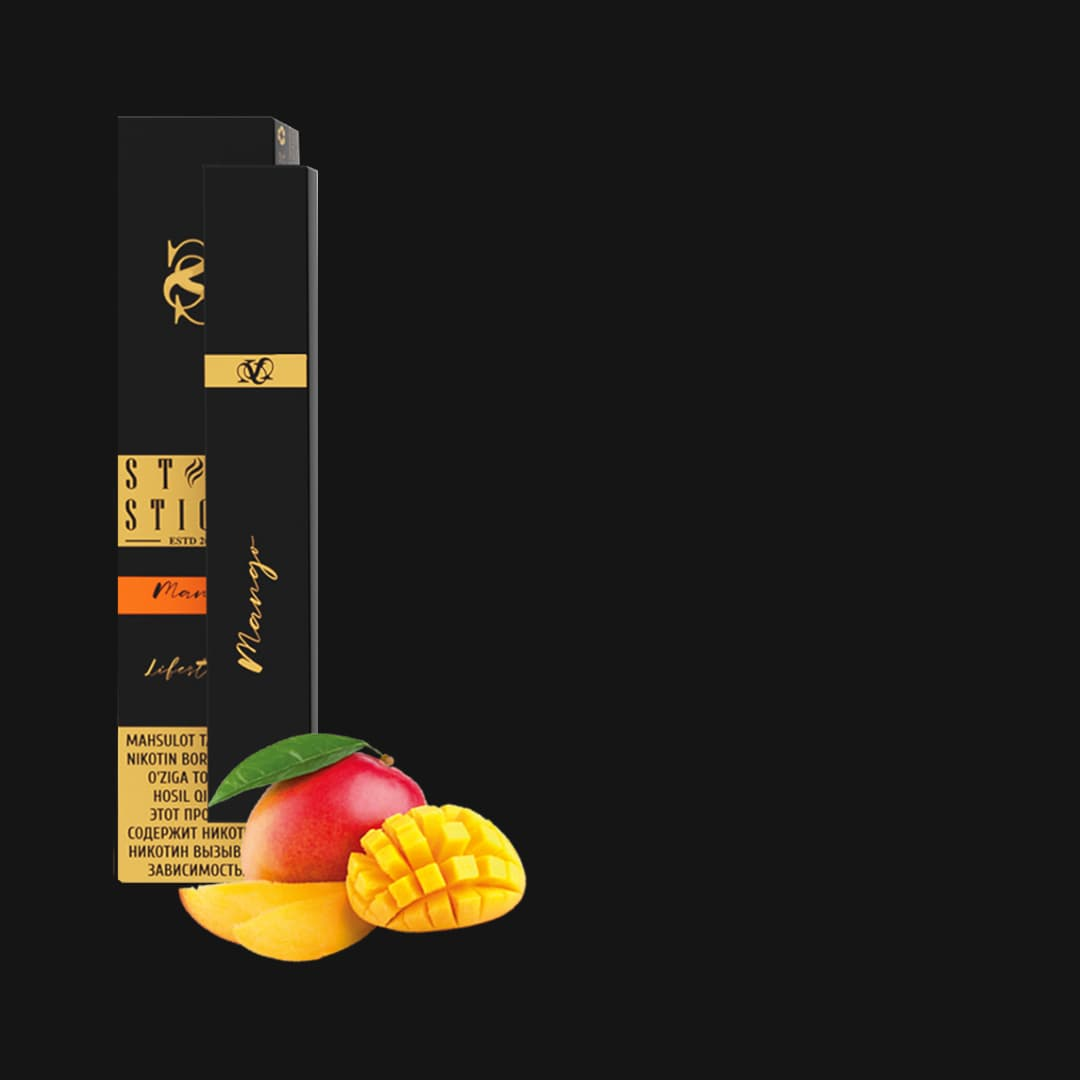
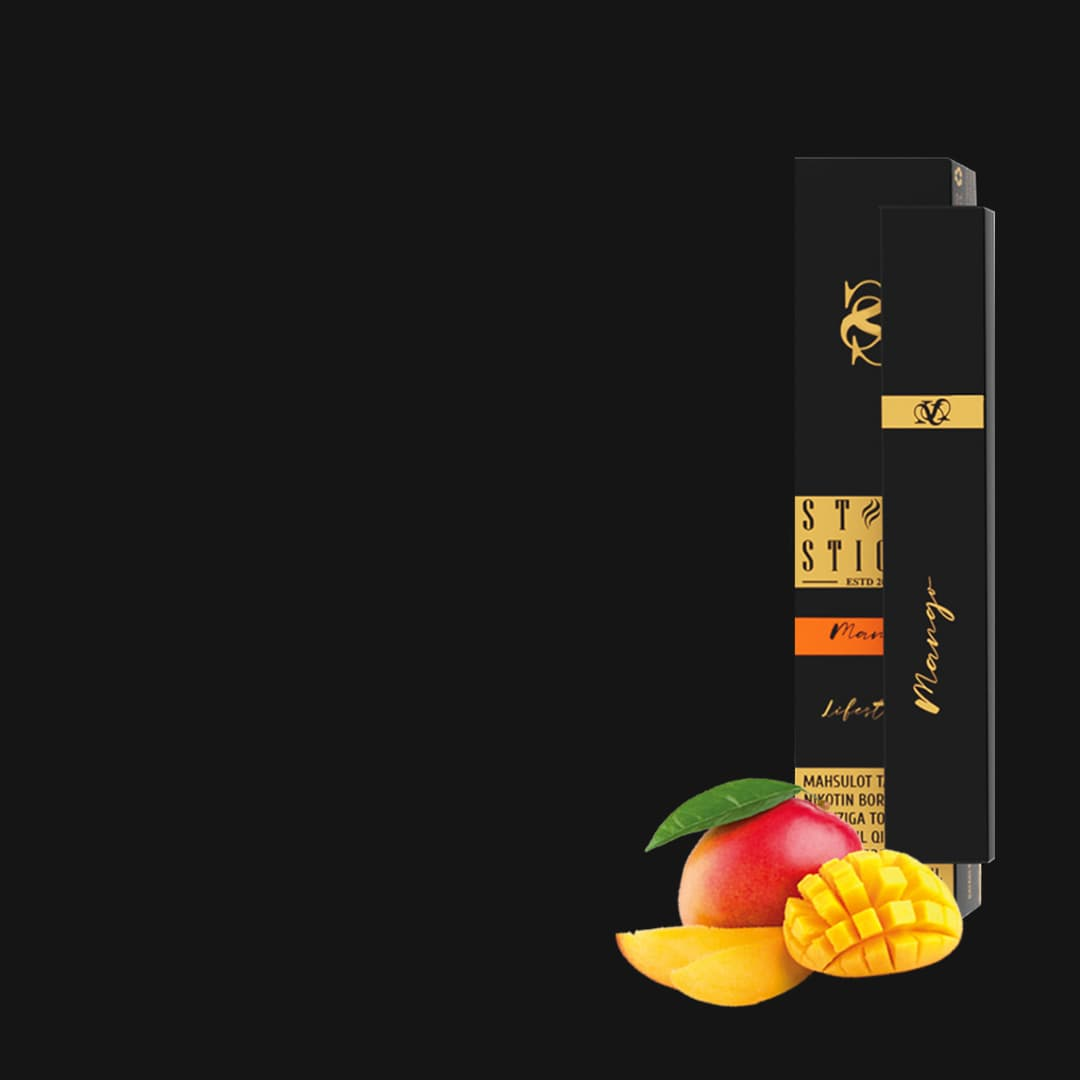
asdf

diff --git a/index.html b/index.html
@@ -30,7 +30,7 @@
     <meta property="og:description" content="Электронные сигареты с разными вкусами для вас!">
     <meta property="og:url" content="http://steamsticks.uz/">
     <meta property="og:locale" content="ru_RU">
-    <meta property="og:image" content="./images/mango-sm.jpg">
+    <meta property="og:image" content="http://mdf.uz/images/mango-sm.jpg">
     <meta property="og:image:width" content="100">
     <meta property="og:image:height" content="100">
 

diff --git a/css/main.css b/css/main.css
@@ -58,12 +58,17 @@ main {
 }
 
 @media screen and (max-width: 768px) {
+  .catalog .item.right {
+    -webkit-box-pack: start;
+        -ms-flex-pack: start;
+            justify-content: flex-start;
+    text-align: left;
+  }
+}
+
+@media screen and (max-width: 768px) {
   .catalog .item {
     height: 320px;
-    -webkit-box-pack: end;
-        -ms-flex-pack: end;
-            justify-content: flex-end;
-    text-align: right;
   }
 }
 

diff --git a/css/main.scss b/css/main.scss
@@ -33,12 +33,15 @@ main {
         &.right {
             justify-content: flex-end;
             text-align: right;
+
+            @include sm-block {
+                justify-content: flex-start;
+                text-align: left;
+            }
         }
 
         @include sm-block {
             height: 320px;
-            justify-content: flex-end;
-            text-align: right;
         }
 
         .title {
